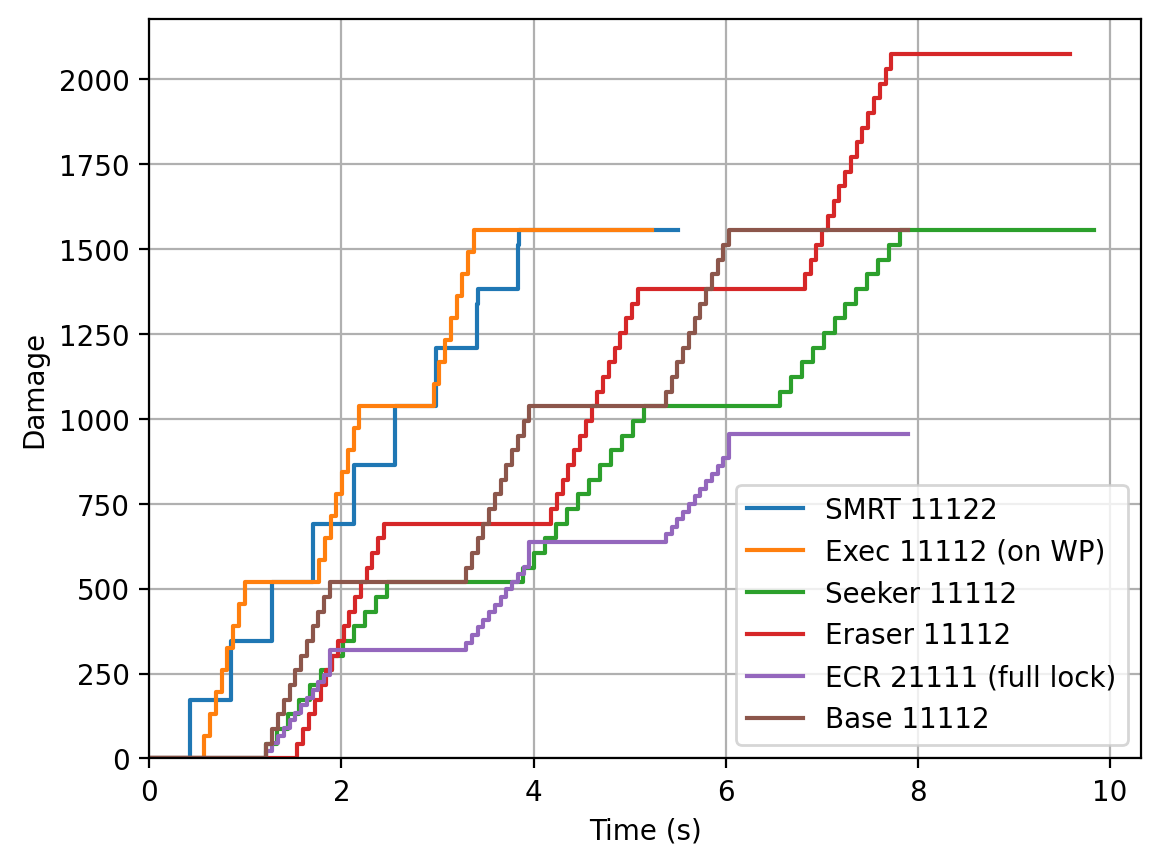
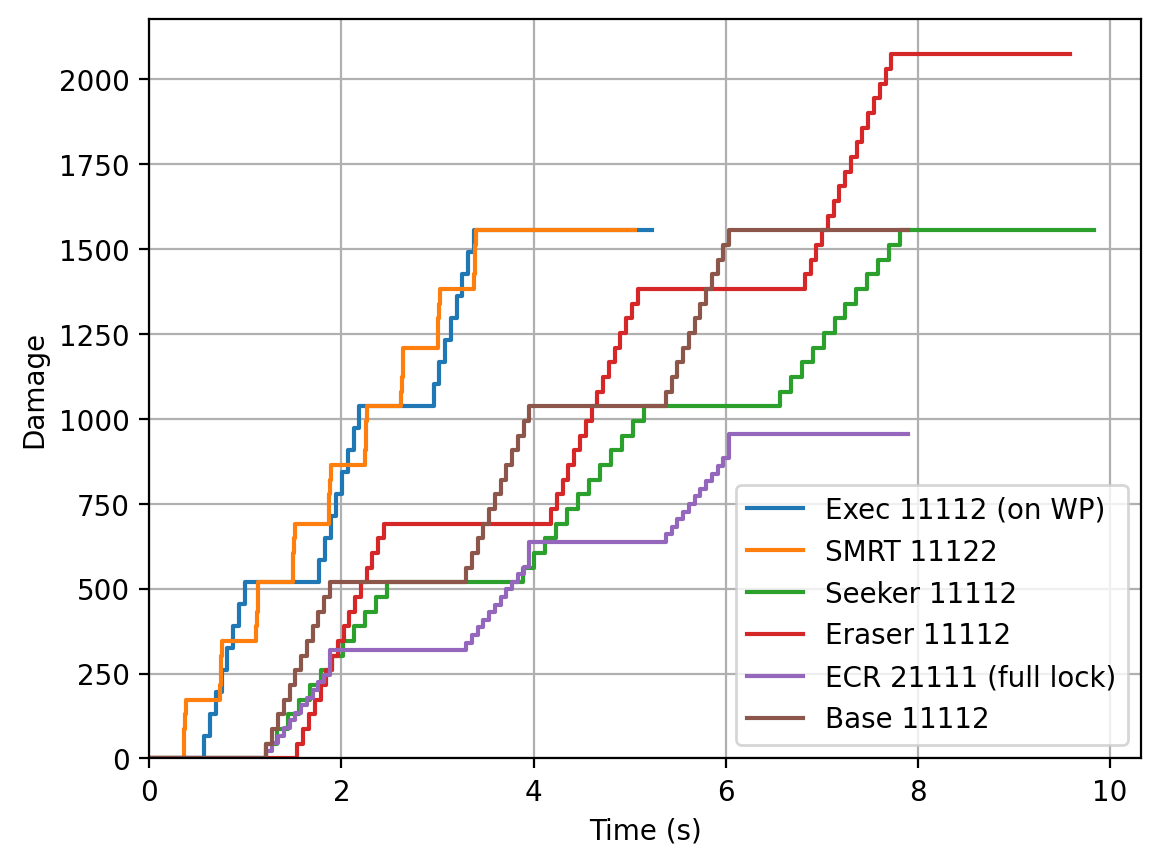
LOK-1 fps notes, SMRT builds, SMRT breakpoints

Changed region(s): [[0.155, 0.2809, 0.4651, 0.874], [0.7132, 0.5618, 0.9612, 0.6555], [0.5581, 0.2497, 0.5891, 0.2809]]

diff --git a/lok1.md b/lok1.md
@@ -29,12 +29,12 @@ The upgrade tree of the weapon is in a rather sad state. Most tiers have preferr
 
 There are quite a lot of fiddly details that become annoying when trying to calculate the DPS of this gun.
 * There is a complicated sequence of events that happens each time you fire a burst:
-  * A 0.25s delay before locks begin to be acquired
-  * Locks are gradually placed on the target
+  * A ~0.22s delay before locks begin to be acquired
+  * Locks are gradually placed on the target (lock time appears to be ROUNDED UP to the next whole number of frames, so this is FPS dependent. Locking on with Executioner at 30fps is 50% slower than at 90fps)
   * The gun waits for you to manually let go of the trigger, which you are almost certain to do a bit late (thus losing DPS) or a bit early (thus getting less than full locks and losing T5B)
-  * The gun fires the locked shots in a burst
+  * The gun fires the locked shots in a burst (time between bursts is also ROUNDED UP to the next whole number of frames)
   * There is a 0.2s delay before the start of the next cycle (or the start of the reload) due to the gun's actual rate of fire of 5 (which is the rof at which you can tapfire)
-  * Finally, SMRT Trigger throws most of this out the window, letting you hold down the button and locking on much faster and ditching the 0.2s rate of fire delay and having an extremely high burst rate of fire. There are additional anomalies with it that cause it to just not match any kind of calculation I could put together. Therefore, SMRT Trigger is best analyzed by just recording the game and timing the recordings. Which leads us to the next issue.
+  * Finally, SMRT Trigger throws much of this out the window, letting you hold down the button and locking on much faster and ditching the 0.2s rate of fire delay and having an extremely high burst rate of fire. There are additional anomalies with it that cause it to just not match any kind of calculation I could put together. Therefore, SMRT Trigger is best analyzed by just recording the game and timing the recordings. Even ignoring the framerate variation.
 * The following things do not change simultaneously and tend to be offset by a few frames from each other. The best approach is to pick one of these and use that one only:
   * The lock icon on the target
   * The lock bar on the left of the crosshair
@@ -46,10 +46,24 @@ There are quite a lot of fiddly details that become annoying when trying to calc
 * T5A electric upgrade adds an additional electric DOT which can affect T3A.
 * Normal fiddly DRG details like punching through armor and hitting weakpoints and blowthrough weirdness and reload cancelling and etc etc etc.
 
+### FPS dependence
+
+Measuring the actual effective rate of fire of the weapon is quite an annoying task as it involves going through gameplay recordings frame by frame. My machine isn't capable of going much above 90fps even in the sandbox, but I was able to fake 6000fps by using [Better Time Control](https://mod.io/g/drg/m/better-time-control) to run the game at 1% speed. There are a number of combinations that I didn't bother testing.
+
+| Build      | 30 FPS | 60 FPS | 90 FPS | 144 FPS | 6000 FPS | Ideal |
+| ---------- | ------ | ------ | ------ | ------- | -------- | ----- |
+| 11112 Exec | 5.27   | 6.00   | 6.15   | -       | 6.85     | 6.88  |
+| 11122 SMRT | -      | 9.37   | -      | 10.06?  | 10.30    | 10.65 |
+
+You can see there is quite significant variation depending on FPS. As I said above, I'm pretty sure lock-on intervals and burst shot intervals are getting rounded up to the next whole number of frames, but I really can't be bothered to go through any more frame-by-frame recordings so this will have to remain unproven. It does work out fairly closely (+/- 1 or 2 frames) for the recordings I did analyze. 
+
+The 10.06 effective rate of fire at 144 FPS for SMRT Trigger uses the rounding-to-the-next frame theory. It's certainly between the tested results for 60fps and 6000fps, so it should be in the right neighborhood. Most people get better performance than I do on my potato setup, so I think this is a good FPS value on which to base build and gameplay analysis. Just, when I give results that involve timing, take them with a grain of salt.
+
 ## General build comparison
 
 OK so how to analyze this weapon? For the graph below, I'll make some simplifying assumptions:
-* You play perfectly and let go of the trigger immediately when the gun reaches max locks (except SMRT Trigger OS where you just keep holding the trigger and perfect play is actually humanly possible)
+* You are running an extremely high FPS so your lock-on and burst times are minimally affected. I'm assuming infinite/ideal FPS for non-SMRT because that's easier to calculate, and 144FPS for SMRT to avoid too much bias in SMRT's favor (because this article has already turned out to be kind of a SMRT propaganda piece)
+* You play perfectly and let go of the trigger immediately when the gun reaches max locks (except SMRT Trigger OS where you just keep holding the trigger). I tried adding a 0.2s delay to the trigger release to simulate human error, but it didn't make a huge difference and with enough skill you could probably get the release to be near frame perfect anyway.
 * T3A and T5B are always active to their full extent (though the fire/electric DOT that activate them won't be counted into the damage, only the T3A bonus)
 * Reasonable reload cancels are performed according to [LazyMaybe's timings](https://www.youtube.com/watch?v=TQ0-ysX-ZX4).
 
@@ -59,16 +73,57 @@ This graph assumes you start holding the trigger at time 0. The last horizontal 
 
 SMRT Trigger and Executioner are clearly the most reactive and have the highest DPS. It is pretty clear why the two of them are considered so much stronger than the base weapon. ECR is also considered strong, but obviously not as a single-target weapon, being more useful for its explosion which inflicts some AOE and fear. (Ideally you want to use bursts of 3 locks to spam explosions rather than full lock, but the 3-lock version of the graph went way off the right edge so I decided to just not show it. You can still full lock if you want to deal with a single target.) Seeker has the next lowest DPS, with less than half the burst of Executioner (though slightly more than half if you include the reload time.) 
 
-## Exec cases and SMRT Trigger OS
+## Different cases of Executioner (ft. SMRT Trigger)
 
-Since SMRT and Exec are our top contenders, let's look at them in a little more detail. This time, I have specifically noted which bonuses apply. T5A electric dot is included. I have also added a 0.2s delay during each Exec firing cycle to account for imperfect play. 
+Since SMRT and Exec are our top contenders, let's look at them in a little more detail. This time, I have specifically noted which bonuses apply. T5A electric dot is included. 
 
 I have also added breakpoints (Haz6p4), though not accounting for enemy resistances/vulnerabilities to electricity or fire. Enemies with breakable heavy armor (Brundles, Stingtails) tend not to punch through until the second hit, so I have added one bullet's worth to their effective health.
 
-Under these assumptions, SMRT now consistently kills faster than Exec even when Exec is hitting weakpoints. (The exception is when 11112 Exec gets T3A and SMRT doesn't, which isn't a fair comparison. I added that Exec case more as a comparison against the other Exec cases.) When Exec isn't hitting weakpoints, it falls way behind. There are a few quite notable enemies where this is relevant, especially shellbacks. You can't one-mag a rolling Haz6p4 shellback with Exec unless you take 11112 and the shellback is on fire (rolling shellbacks are completely immune to electricity, and you aren't likely to hit a weakpoint). 
+Note how T5A electricity loses a small bit of damage up front, butt ends up slightly ahead over time. When combined with the power of electric slow, I think this makes 11111 usually worth taking over 11112. The exception is if you anticipate having an abundant source of electricity elsewhere, because then 11112 gives a much bigger damage boost (green line).
+
+![](img/lok1_exec.png)
+
+### Executioner vs SMRT
+
+If I add a 0.2s human-error delay to Exec's mouse release, then SMRT consistently kills faster than Exec even when Exec is hitting weakpoints. (The exception is when 11112 Exec gets T3A and SMRT doesn't, which isn't a fair comparison. I added that Exec case more as a comparison against the other Exec cases.) 
+
+When Exec isn't hitting weakpoints, it falls way behind. There are a few quite notable enemies where this is relevant, especially shellbacks. You can't one-mag a rolling Haz6p4 shellback with Exec unless you take 11112 and the shellback is on fire (rolling shellbacks are completely immune to electricity, and you aren't likely to hit a weakpoint). 
 
 The tradeoff for this DPS and reactiveness is that as I mentioned at the beginning, SMRT Trigger OS doesn't get many massive bonuses to increase its total damage pool. So you'll have to pick your targets and be mindful of your pacing, especially in teams where resupplies are less plentiful. Still, it's way better than the base weapon and I think it deserves to have a reputation equal to Executioner's.
 
-![](img/lok1_exec.png)
+## SMRT vs SMRT
+
+If you are particularly interested in SMRT Trigger, here is a further build comparison for SMRT specifically.
+
+![](img/lok1_smrt.png)
+
+Featured builds:
+* **11121 SMRT**: A good pick. Damage, 4 locks, and electricity. This comes out with the highest DPS in most cases due to electric damage over time, plus has electric slow. Waiting out the full electric DOT grants a bit more than an extra shot's worth of damage. 
+* **11122 SMRT**: A good pick. Damage, 4 locks, no electricity. This is the best of all Engi primaries against rolling shellbacks (which are immune to electricity).
+* 21122 SMRT: I'm not sure about this one. Included here to show what happens when you take the ammo upgrade instead. Longer time to kill, slightly more ammo efficient, nothing too surprising.
+* 11112 SMRT: Not great. Included here to show what happens when you take the 2-lock version of the gun. You can *sometimes* kill small targets more quickly, but the net rate of fire works out to be lower. On moving targets with heavy armor, you are also less likely to keep hitting the same armor plate that you broke with an earlier shot, which decreases damage output. 
+  * If you take 11111 you can also milk the electric DOT's full value more easily to get a bit more ammo efficiency. However, your time to kill on small enemies will be a lot slower if you want to really use the electric damage, and the attention cost is much higher. I don't recommend this strategy.
+
+## SMRT Breakpoint Samples
+
+Breakpoints for Executioner are already given [on technicaldrg](https://www.reddit.com/r/technicaldrg/comments/wi63o3/lok1_executioner_breakpoints_haz6p4/) so I will put some SMRT breakpoints here as my side of the contribution.
+
+The table below shows the number of shots taken to kill various bugs in combat tests (with bug AI enabled). Because Brundles and Shellbacks move a lot, their results are given as a range of what I experienced. For Brundles, I tried to consistently hit the same armor plate. For Shellbacks, I tried different situations of shooting them at long range vs in chaotic close quarters. Note that the curled up legs of a Shellback are completely invulnerable. Some of the results that took the most shots undoubtedly included shots getting blocked by this effect. Imagine them as a rolling car tire: aim for the tread, don't aim for the hub.
+
+|       | Mac Spawn | Trijaw      | Brundle               | Acid Body       | Acid Head   | Web Body | Grunt Body  | Slasher Body    | Shellback, Rolling (H6p4)                                       |
+| ----- | --------- | ----------- | --------------------- | --------------- | ----------- | -------- | ----------- | --------------- | --------------------------------------------------------------- |
+| 11111 | 3         | 5, or 4+dot | 9-14                  | 5, or 4+dot     | 3, or 2+dot | 2        | 4, or 3+dot | 6, or 4+dot+dot | 40-53                                                           |
+| 11112 | 3         | 5           | 11-20                 | 5               | 3           | 2        | 4           | 6               | 30-47                                                           |
+| 11121 | 3         | 5, or 4+dot | usually 9             | 5, or 4+dot     | 3           | 2        | 4           | 6, or 5+dot     | 37-50                                                           |
+| 11122 | 3         | 5           | usually 10            | 5               | 3           | 2        | 4           | 6               | 23-40                                                           |
+| 21111 | 4         | 6, or 5+dot | 12-22                 | 6, or 4+dot+dot | 3           | 2        | 5, or 4+dot | 7, or 5+dot+dot | 58-65                                                           |
+| 21112 | 4         | 6           | 13-26                 | 6               | 3           | 2        | 5           | 8               | 50-61                                                           |
+| 21121 | 4         | 6, or 5+dot | 12-16                 | 6, or 5+dot     | 3           | 2        | 5, or 4+dot | 7               | 46-61                                                           |
+| 21122 | 4         | 6           | 13-19                 | 6               | 3           | 2        | 5           | 8               | 42-56                                                           |
+
+Conclusions:
+* 11122 is the most reliable build for one-magging a rolling Shellback
+* Electricity is notably better against Brundles
+* T5a electricity can often let you save one shot on small targets if you're willing to wait for DOT, but as I noted in the previous section I don't think this is really worth it
 
 [Back to DRG Analysis](README.md)
